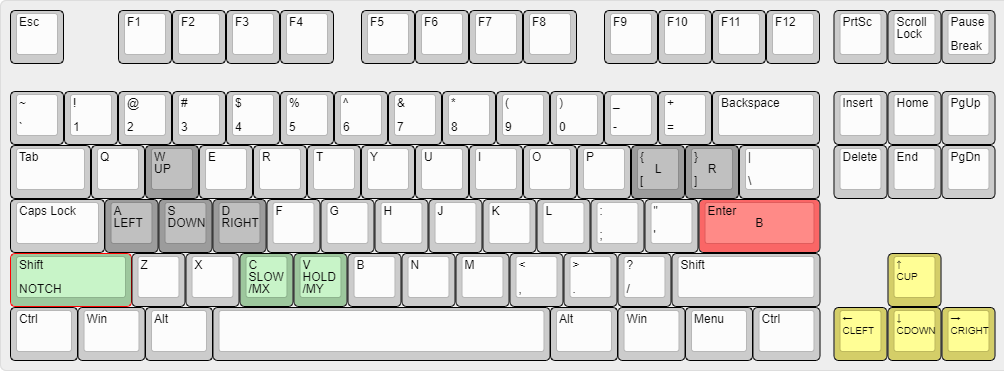
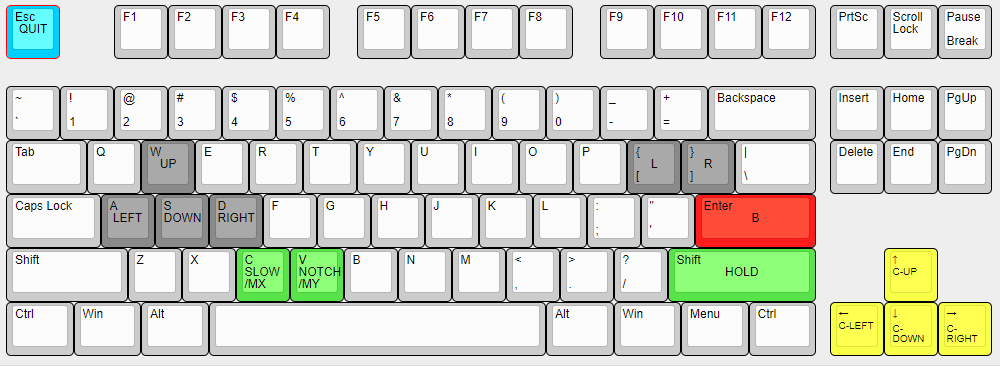
Adjusted Layout

diff --git a/src/dac.py b/src/dac.py
@@ -360,7 +360,7 @@ def box_dac(state,buttons):
 
   if (vertical and horizontal):
     if (buttons.l or buttons.r):
-      if (buttons.slow == buttons.hold):
+      if (buttons.slow == buttons.notch):
           x = 0.7
           y = 0.7 if read_up else 0.6875
       elif buttons.slow:
@@ -369,7 +369,7 @@ def box_dac(state,buttons):
       else: 
         x = 0.475 if read_up else 0.5
         y = 0.875 if read_up else 0.85
-    elif (buttons.B and (buttons.slow != buttons.hold)):
+    elif (buttons.B and (buttons.slow != buttons.notch)):
       if (buttons.slow):
         if (buttons.c_down):
             x = 0.9125
@@ -403,7 +403,7 @@ def box_dac(state,buttons):
             x = 0.3875
             y = 0.9125
                   
-    elif (buttons.slow != buttons.hold):
+    elif (buttons.slow != buttons.notch):
       if (buttons.slow):
         if (buttons.c_down):
           x = 0.7
@@ -441,7 +441,7 @@ def box_dac(state,buttons):
       y = 0.7
 
   elif (horizontal):
-      if (buttons.slow == buttons.hold):
+      if (buttons.slow == buttons.notch):
          x = 1.0
          y = 0.0
       elif (buttons.slow): 
@@ -452,7 +452,7 @@ def box_dac(state,buttons):
         y = 0.0
 
   elif (vertical):
-      if (buttons.slow == buttons.hold): 
+      if (buttons.slow == buttons.notch): 
         x = 0.0
         y = 1.0
       elif (buttons.slow): 

diff --git a/src/main.py b/src/main.py
@@ -37,10 +37,12 @@ def redraw(window, rows, cols, size,state):
 
 
 def update_pos(state,buttons):
-  use_boxx = False
+  dac_type = 0
   dac.socd(state,buttons)
-  if use_boxx:
+  if dac_type == 0:
     dac.box_dac(state,buttons)
+  elif dac_type == 1:
+    dac.box_travel()
   else:
     dac.analog_press(state,buttons)
   pass
@@ -60,9 +62,8 @@ def main():
   running = True
   while running:
     keys = pygame.key.get_pressed()
-    mods = pygame.key.get_pressed()
     b.read(keys[keymap.UP],keys[keymap.DOWN],keys[keymap.LEFT],keys[keymap.RIGHT],keys[keymap.SLOW],
-      keys[keymap.HOLD],mods[keymap.NOTCH],keys[keymap.C_UP],keys[keymap.C_DOWN],keys[keymap.C_LEFT],
+      keys[keymap.HOLD],keys[keymap.NOTCH],keys[keymap.C_UP],keys[keymap.C_DOWN],keys[keymap.C_LEFT],
       keys[keymap.C_RIGHT],keys[keymap.B],keys[keymap.L],keys[keymap.R])
     window.blit(bg, (0, 0))
     update_pos(s,b)
@@ -74,7 +75,7 @@ def main():
         pygame.quit()
         running = False
       elif event.type == pygame.KEYDOWN:
-        if event.key == pygame.K_ESCAPE:
+        if event.key == keymap.QUIT:
             pygame.quit()
             running = False
 

diff --git a/src/keymap.py b/src/keymap.py
@@ -4,8 +4,8 @@ DOWN = pygame.K_s
 LEFT = pygame.K_a
 RIGHT = pygame.K_d
 SLOW = pygame.K_c
-HOLD = pygame.K_v
-NOTCH = pygame.K_LSHIFT
+HOLD = pygame.K_RSHIFT
+NOTCH = pygame.K_v
 C_UP = pygame.K_UP
 C_DOWN = pygame.K_DOWN 
 C_LEFT = pygame.K_LEFT
@@ -13,3 +13,4 @@ C_RIGHT = pygame.K_RIGHT
 B = pygame.K_RETURN 
 L = pygame.K_LEFTBRACKET
 R = pygame.K_RIGHTBRACKET
+QUIT = pygame.K_ESCAPE
